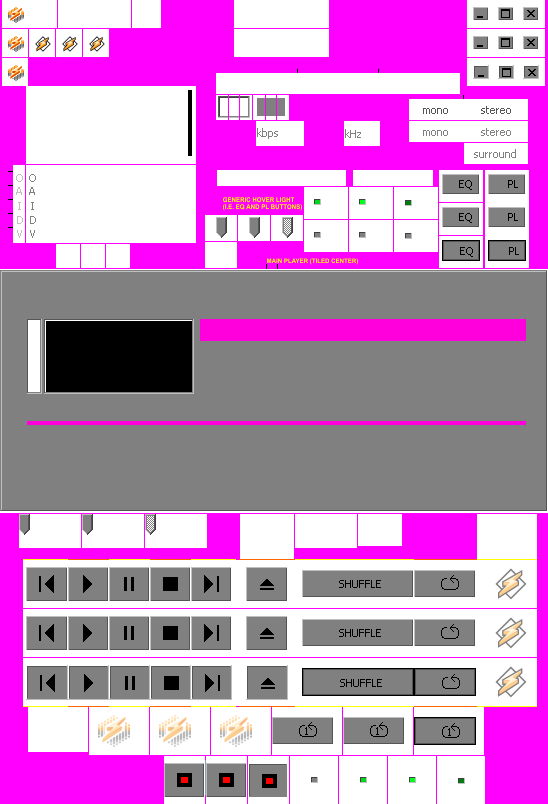
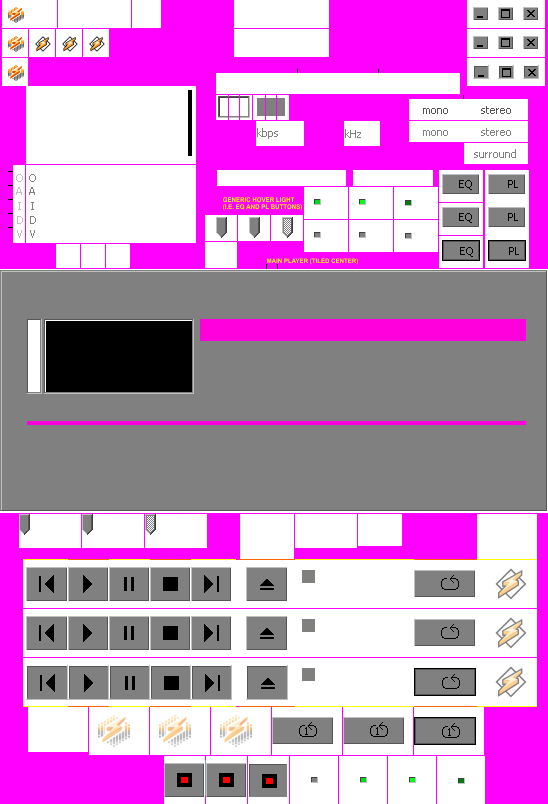
i give up

Changed region(s): [[0.5274, 0.6841, 0.7755, 0.8706]]

diff --git a/scripts/mainplayer.m b/scripts/mainplayer.m
@@ -378,14 +378,14 @@ RepeatShuffleHandler.onLeftButtonDown (int x, int y)
   {
 		if (getCurCfgVal() == 1)
 		{
-      ShuffleLight.setXmlParam("image", "repeat.light.on.d");
-      ShuffleLight.setXmlParam("activeImage", "repeat.light.on.d");
+      ShuffleLight.setXmlParam("image", "check.no");
+      ShuffleLight.setXmlParam("activeImage", "check.no");
 			showActionInfo("Shuffle: Off");
 		}
 		else
 		{
-      ShuffleLight.setXmlParam("image", "repeat.light.on.d");
-      ShuffleLight.setXmlParam("activeImage", "repeat.light.on.d");
+      ShuffleLight.setXmlParam("image", "checked");
+      ShuffleLight.setXmlParam("activeImage", "checked");
 			showActionInfo("Shuffle: On");
 		}
 	}
@@ -441,25 +441,25 @@ RepeatShuffleHandler.onLeftButtonUp (int x, int y)
       {
         if (ShuffleBtn.isMouseOverRect())
         {
-          ShuffleLight.setXmlParam("image", "repeat.light.on.h");
-          ShuffleLight.setXmlParam("activeImage", "repeat.light.on.h");
+          ShuffleLight.setXmlParam("image", "checked");
+          ShuffleLight.setXmlParam("activeImage", "checked");
         }
         else {
-          ShuffleLight.setXmlParam("image", "repeat.light.on");
-          ShuffleLight.setXmlParam("activeImage", "repeat.light.on");
+          ShuffleLight.setXmlParam("image", "checked");
+          ShuffleLight.setXmlParam("activeImage", "checked");
         }
       }
       else
       {
         if (ShuffleBtn.isMouseOverRect())
         {
-          ShuffleLight.setXmlParam("image", "repeat.light.on.h");
-          ShuffleLight.setXmlParam("activeImage", "repeat.light.on.h");
+          ShuffleLight.setXmlParam("image", "check.no");
+          ShuffleLight.setXmlParam("activeImage", "check.no");
         }
         else
         {
-          ShuffleLight.setXmlParam("image", "repeat.light.on");
-          ShuffleLight.setXmlParam("activeImage", "repeat.light.on");
+          ShuffleLight.setXmlParam("image", "check.no");
+          ShuffleLight.setXmlParam("activeImage", "check.no");
         }
       }
 		}
@@ -486,11 +486,11 @@ RepeatShuffleHandler.onEnterArea()
   {
 		if (getCurCfgVal() == 1)
 		{
-			ShuffleLight.setXmlParam("image", "repeat.light.on");
+			ShuffleLight.setXmlParam("image", "checked");
 		}
 		else
 		{
-			ShuffleLight.setXmlParam("image", "repeat.light.on");
+			ShuffleLight.setXmlParam("image", "check.no");
 		}
   }
 }
@@ -516,11 +516,11 @@ RepeatShuffleHandler.onLeaveArea()
   {
  		if (getCurCfgVal() == 1)
 		{
-			ShuffleLight.setXmlParam("image", "repeat.light.on");
+			ShuffleLight.setXmlParam("image", "checked");
 		}
 		else if (getCurCfgVal() == 0)
 		{
-      ShuffleLight.setXmlParam("image", "repeat.light.off");
+      ShuffleLight.setXmlParam("image", "check.no");
 		} 
   }
 }
